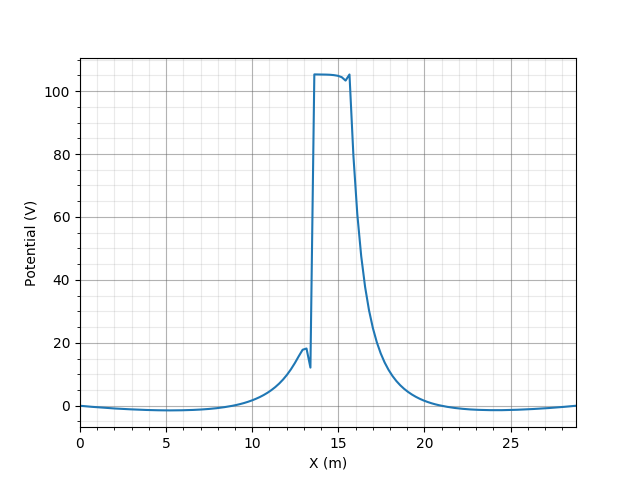
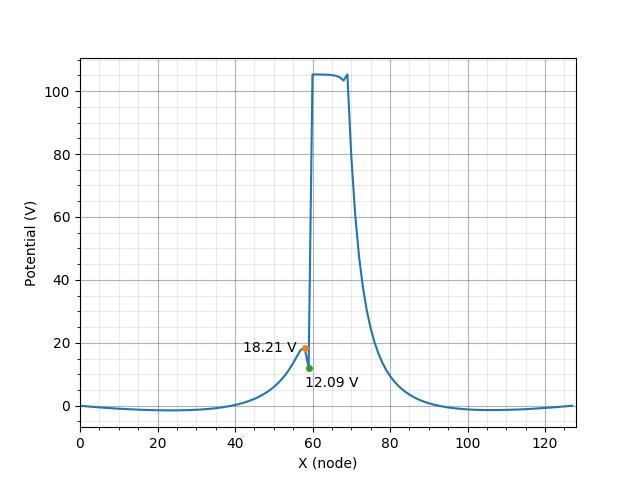
Updated line plots with photoelectron well extrema values

diff --git a/sections/FutureWork.tex b/sections/FutureWork.tex
@@ -2,9 +2,9 @@
 \label{sec:future}
 
 \section{Improving the object module}
-In order to simulate the charging of objects in ambient plasma, PINC uses the capacitance matrix method as described in \parencite{Miyake2009}. The implementation of this method in the PINC framework when the capacitance matrix is applied and charges are redistributed to the object surface assumes the object is composed of a homogeneous, and perfectly conducting, material: Charges due to impinging particles, and photoelectrons, are redistributed evenly in such a way as to achieve an equipotential. For dielectric surfaces charged particles tend to remain where they struck the surface by definition.
+In order to simulate the charging of objects in ambient plasma, PINC uses the capacitance matrix method as described in \parencite{Miyake2009}. The implementation of this method in the PINC framework when the capacitance matrix is applied and charges are redistributed to the object surface assumes the object is composed of a homogeneous, and perfectly conducting, material: Charges due to impinging particles, and photoelectrons, are redistributed evenly in such a way as to achieve an equipotential. Since dielectric surfaces are poor electrical conductors, charged particles tend to remain where they strike on the surface.
 
-In physical systems, this assumption does not necessarily hold, spacecraft that are composed of both dielectric and conducting surfaces can charge to different levels in sunlight \parencite{LAI2019}. For spacecraft with different surface material composition, this difference in surface potential leads to differential charging. For spacecraft exposed to sunlight, like the MMO, the shadowed dielectric surfaces emit secondary electrons when high temperature electrons impinge of the surface. These secondary electrons are re-absorbed by conducting surfaces grounded to the less negatively charged sunlit side, thereby charging the spacecraft more (in the negative sense) as compared to a perfectly conducting spacecraft. 
+In physical systems, this assumption of a perfectly conducting body does not necessarily hold, spacecraft that are composed of both dielectric and conducting surfaces can charge to different levels in sunlight \parencite{LAI2019}. For spacecraft with different surface material composition, this difference in surface potential leads to differential charging. For spacecraft exposed to sunlight, like the MMO, the shadowed dielectric surfaces emit secondary electrons when high temperature electrons impinge of the surface. These secondary electrons are re-absorbed by conducting surfaces grounded to the less negatively charged sunlit side, thereby charging the spacecraft more (in the negative sense) as compared to a perfectly conducting spacecraft. 
 
 Dielectric surfaces could be implemented by separating the arrays containing surface nodes into separate arrays for conducting surfaces and dielectric surface nodes. Alternatively, since the object module in PINC is able to simulate several objects at the same time, the spacecraft could be divided into separate objects labeled as either dielectric or conducting.
 

diff --git a/sections/Results.tex b/sections/Results.tex
@@ -313,7 +313,7 @@
 \end{subfigure}
 \par\bigskip
 \begin{subfigure}[b]{0.75\textwidth}
-  \includegraphics[width=\columnwidth]{figures/MMO/PHTemp/NB/C_PHTemp_WB.png}
+  \includegraphics[width=\columnwidth]{figures/MMO/PHTemp/NB/C_PHTemp_NB.png}
   \caption{Without booms}
   \label{fig:C_PHTemp_NB}
 \end{subfigure}
@@ -379,7 +379,7 @@
   \label{fig:E_PHTemp_WB}
 \end{subfigure}
 \begin{subfigure}[b]{0.6\textwidth}
-  \includegraphics[width=\textwidth]{figures/MMO//NB/E_PHTemp_NB.png}
+  \includegraphics[width=\textwidth]{figures/MMO/PHTemp/NB/E_PHTemp_NB.png}
   \caption{Without booms}
   \label{fig:E_PHTemp_NB}
 \end{subfigure}
